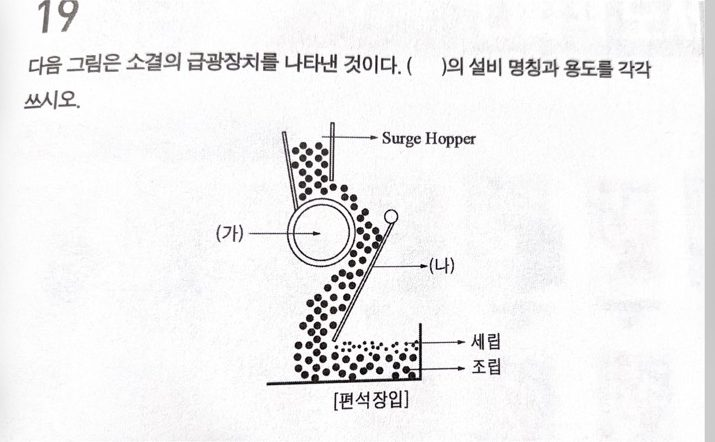
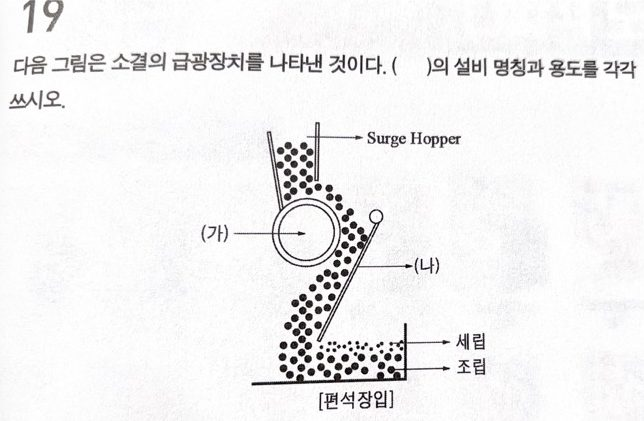
fix: 폰 캡처 그림 전수 점검 — 회색 여백 트림 2건 회전 보정
- 잉크 영역 자동 트림(TRIM_TO_CONTENT): 회색 배경·빈 여백 제거
- 24-1_0(열풍로 배관도), 24-2_2(노정장입물 4패널) 눕힘 → +90도 회전
- 고유 그림 15종 전부 육안 재검증 완료

Changed region(s): [[0.2795, 0.2779, 0.7764, 0.9881], [0.0, 0.0, 1.0, 1.0], [0.0311, 0.0, 0.1242, 0.0926]]

diff --git a/build/images.py b/build/images.py
@@ -1,5 +1,6 @@
 import os, io
 import openpyxl
+import numpy as np
 from PIL import Image
 # 문제 번호 판정은 워드 파서와 반드시 같은 규칙을 써야 한다.
 # (회차, 번호) 조인이 어긋나면 그림이 엉뚱한 문제에 붙는다.
@@ -17,10 +18,17 @@ ROTATE = {
     "21-1_4": 90,                                             # 소결 공정도
     "21-2_0": -90,                                            # 풍구 단면
     "24-2_3": 90, "25-2_1": 90, "25-2_2": 90,                 # 폰캡처 내부 눕힘
+    "24-1_0": 90,                                             # 열풍로 배관도(눕힘)
+    "24-2_2": 90,                                             # 노정장입물 4패널(눕힘)
 }
 # 휴대폰 촬영 앱 화면째로 캡처된 이미지 — 상단/하단 UI 바 제거(iOS 고정 위치)
 CROP_PHONE_UI = {"22-1_0", "24-1_0", "24-2_2", "24-2_3", "25-2_1", "25-2_2"}
 CROP_TOP, CROP_BOTTOM = 130, 115
+# UI를 잘라낸 뒤에도 남는 회색 배경·빈 여백을 잉크 영역까지 다듬는다
+TRIM_TO_CONTENT = set(CROP_PHONE_UI)
+INK_THRESHOLD = 170   # 이 값보다 어두우면 잉크(선·글자)로 본다
+INK_MIN_PIXELS = 3    # 노이즈 무시용 최소 잉크 픽셀 수
+TRIM_PADDING = 10
 
 
 def _question_rows(ws):
@@ -34,8 +42,22 @@ def _question_rows(ws):
     return out
 
 
-def _save(raw_bytes, path, rotate=0, crop_ui=False):
-    """폰 UI 크롭 → 회전 → 축소 → JPEG 저장."""
+def _ink_bbox(im):
+    """잉크(어두운 픽셀)가 차지하는 영역 + 여백. 없으면 None."""
+    g = np.asarray(im.convert("L"))
+    ink = g < INK_THRESHOLD
+    rows = np.where(ink.sum(axis=1) >= INK_MIN_PIXELS)[0]
+    cols = np.where(ink.sum(axis=0) >= INK_MIN_PIXELS)[0]
+    if len(rows) == 0 or len(cols) == 0:
+        return None
+    h, w = g.shape
+    p = TRIM_PADDING
+    return (max(0, int(cols.min()) - p), max(0, int(rows.min()) - p),
+            min(w, int(cols.max()) + p + 1), min(h, int(rows.max()) + p + 1))
+
+
+def _save(raw_bytes, path, rotate=0, crop_ui=False, trim=False):
+    """폰 UI 크롭 → 회전 → 잉크 영역 트림 → 축소 → JPEG 저장."""
     try:
         im = Image.open(io.BytesIO(raw_bytes)).convert("RGB")
         if crop_ui:
@@ -43,6 +65,10 @@ def _save(raw_bytes, path, rotate=0, crop_ui=False):
             im = im.crop((0, CROP_TOP, w, h - CROP_BOTTOM))
         if rotate:
             im = im.rotate(rotate, expand=True)
+        if trim:
+            bb = _ink_bbox(im)
+            if bb:
+                im = im.crop(bb)
         if im.width > MAX_IMG_WIDTH:
             h2 = round(im.height * MAX_IMG_WIDTH / im.width)
             im = im.resize((MAX_IMG_WIDTH, h2), Image.LANCZOS)
@@ -73,6 +99,6 @@ def extract_images(xlsx_path, out_dir):
                 continue
             key = f"{sheet}_{i}"
             _save(img._data(), os.path.join(out_dir, key + ".jpg"),
-                  ROTATE.get(key, 0), key in CROP_PHONE_UI)
+                  ROTATE.get(key, 0), key in CROP_PHONE_UI, key in TRIM_TO_CONTENT)
             mapping.setdefault((sheet, owner), []).append(f"images/{key}.jpg")
     return mapping

diff --git a/build/tests/test_images.py b/build/tests/test_images.py
@@ -24,9 +24,32 @@ def test_rotated_image_is_landscape():
     assert im.width > im.height
 
 
-def test_phone_ui_cropped():
-    """폰 캡처 이미지는 상·하단 UI 바가 잘려 원본(960px)보다 짧다."""
+def test_phone_ui_cropped_and_trimmed():
+    """폰 캡처는 UI 바 제거 후 잉크 영역까지 트림되어 여백이 남지 않는다."""
     from PIL import Image
     extract_images(XLSX, OUT)
     im = Image.open(os.path.join(OUT, "22-1_0.jpg"))
-    assert im.height == 960 - 130 - 115
+    # UI 제거만 하면 715px, 잉크 트림까지 하면 그보다 훨씬 짧다
+    assert im.height < 500
+    assert im.width <= 442
+
+
+def test_sideways_phone_captures_are_rotated_upright():
+    """열풍로 배관도·노정장입물 4패널은 눕게 촬영되어 회전 보정이 필요하다."""
+    from PIL import Image
+    extract_images(XLSX, OUT)
+    for name in ("24-1_0.jpg", "24-2_2.jpg"):
+        im = Image.open(os.path.join(OUT, name))
+        assert im.width > im.height, name
+
+
+def test_trimmed_image_has_ink_near_edges():
+    """트림이 제대로 되면 이미지 테두리 근처에 잉크(어두운 픽셀)가 존재한다."""
+    from PIL import Image
+    import numpy as np
+    extract_images(XLSX, OUT)
+    g = np.asarray(Image.open(os.path.join(OUT, "22-1_0.jpg")).convert("L"))
+    band = 24  # 테두리에서 24px 이내
+    edges = np.concatenate([g[:band].ravel(), g[-band:].ravel(),
+                            g[:, :band].ravel(), g[:, -band:].ravel()])
+    assert (edges < 170).sum() > 0
